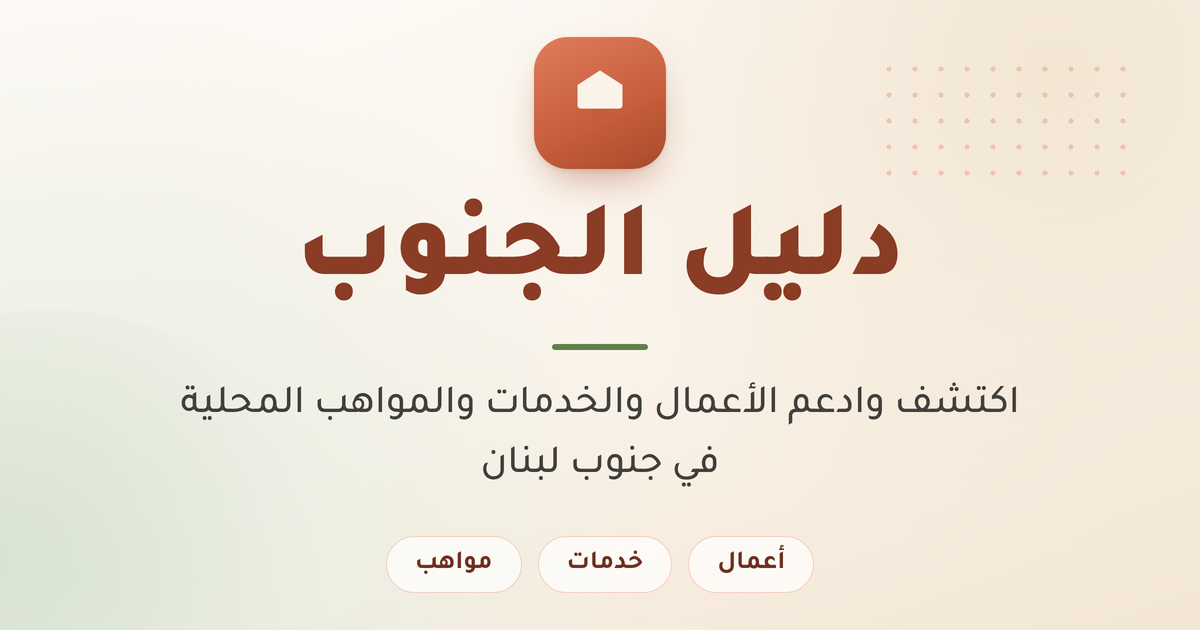
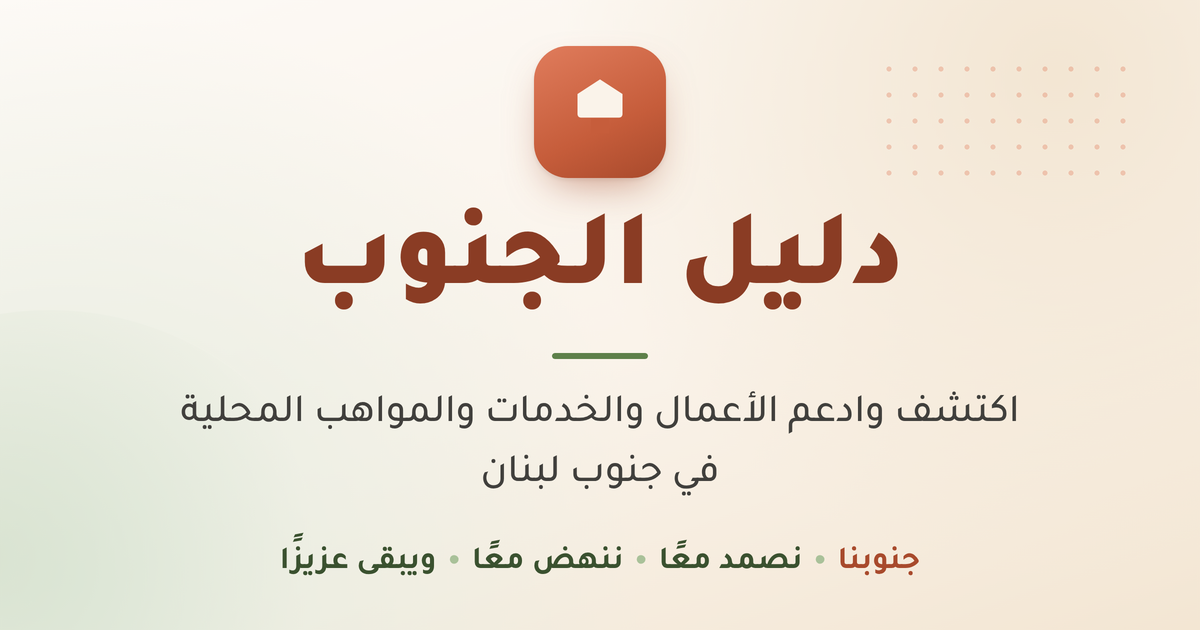
Add the جنوبنا slogan to the home page, og:image and description
- HomePage: a banner right under the hero (جنوبنا • نصمد معًا • ننهض
  معًا • ويبقى عزيزًا), in the app's olive accent.
- The site-wide share image now carries the same slogan baked into
  the image itself, alongside the existing "دليل الجنوب" wordmark.
- The default description (index.html's static tag, the backend's
  seo.default.description used for og:description/twitter:description
  on every route, and home.seoDescription used client-side) all open
  with the slogan now, instead of just the "what this is" line.

diff --git a/frontend/index.html b/frontend/index.html
@@ -7,10 +7,10 @@
     <title>دليل الجنوب | اكتشف الأعمال والخدمات في جنوب لبنان</title>
     <meta
       name="description"
-      content="دليل يجمع المحال، الخدمات، المنتجات والمشاريع المحلية في جنوب لبنان في مكان واحد."
+      content="جنوبنا: نصمد معًا، ننهض معًا، ويبقى عزيزًا. دليل يجمع المحال، الخدمات، المنتجات والمشاريع المحلية في جنوب لبنان في مكان واحد."
     />
     <meta property="og:title" content="دليل الجنوب" />
-    <meta property="og:description" content="اكتشف وادعم الأعمال المحلية في جنوب لبنان." />
+    <meta property="og:description" content="جنوبنا: نصمد معًا، ننهض معًا، ويبقى عزيزًا. دليل يجمع المحال، الخدمات، المنتجات والمشاريع المحلية في جنوب لبنان في مكان واحد." />
     <meta property="og:type" content="website" />
     <meta property="og:locale" content="ar_LB" />
     <meta property="og:site_name" content="دليل الجنوب" />
@@ -19,7 +19,7 @@
     <meta property="og:image:height" content="630" />
     <meta name="twitter:card" content="summary_large_image" />
     <meta name="twitter:title" content="دليل الجنوب" />
-    <meta name="twitter:description" content="اكتشف وادعم الأعمال المحلية في جنوب لبنان." />
+    <meta name="twitter:description" content="جنوبنا: نصمد معًا، ننهض معًا، ويبقى عزيزًا. دليل يجمع المحال، الخدمات، المنتجات والمشاريع المحلية في جنوب لبنان في مكان واحد." />
     <meta name="twitter:image" content="/og-image.png" />
     <link rel="icon" href="/favicon.svg" type="image/svg+xml" />
   </head>

diff --git a/frontend/src/pages/HomePage.tsx b/frontend/src/pages/HomePage.tsx
@@ -106,6 +106,20 @@ export function HomePage() {
         </div>
       </section>
 
+      <section className="border-y border-olive-200 bg-olive-50 py-5" aria-label={t('home.sloganTitle')}>
+        <div className="container-page flex flex-col items-center justify-center gap-2 text-center sm:flex-row sm:gap-4">
+          <span className="text-sm font-bold text-olive-700">{t('home.sloganTitle')}</span>
+          <span className="hidden text-olive-300 sm:inline">•</span>
+          <div className="flex flex-wrap items-center justify-center gap-x-3 gap-y-1 text-sm font-semibold text-olive-800">
+            <span>{t('home.sloganLine1')}</span>
+            <span className="text-olive-300">•</span>
+            <span>{t('home.sloganLine2')}</span>
+            <span className="text-olive-300">•</span>
+            <span>{t('home.sloganLine3')}</span>
+          </div>
+        </div>
+      </section>
+
       <section className="container-page py-14" aria-labelledby="discover-heading">
         <h2 id="discover-heading" className="mb-6 text-center text-2xl">
           {t('home.discoverHeading')}
